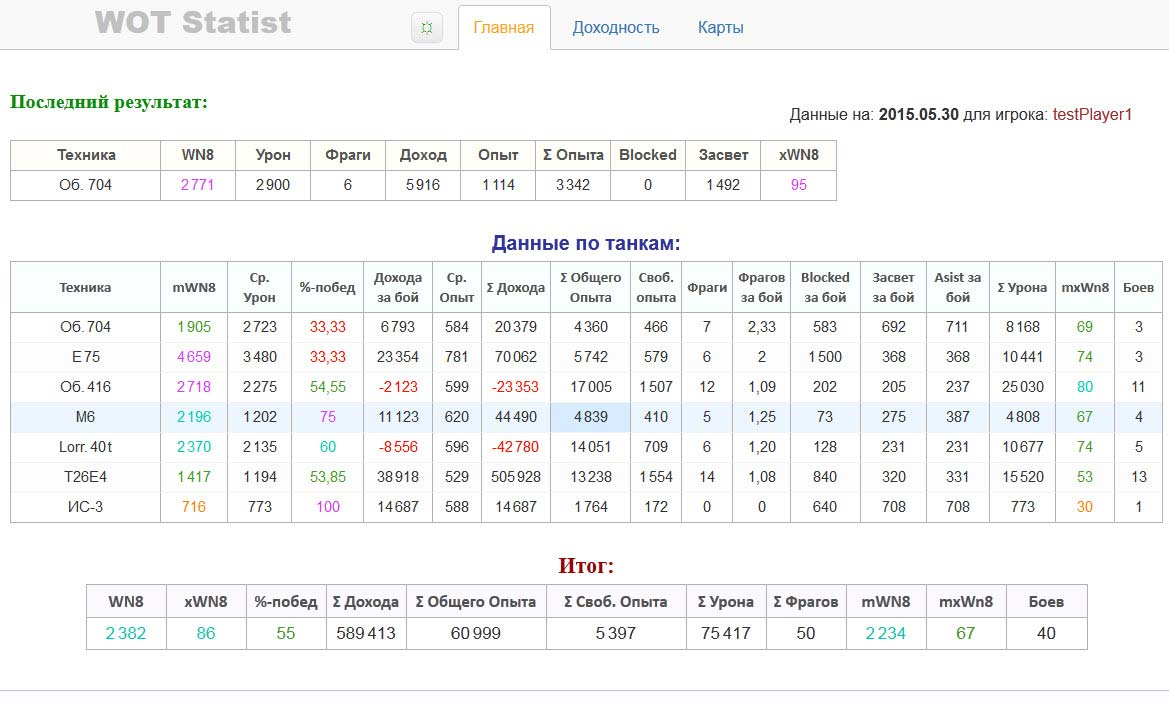
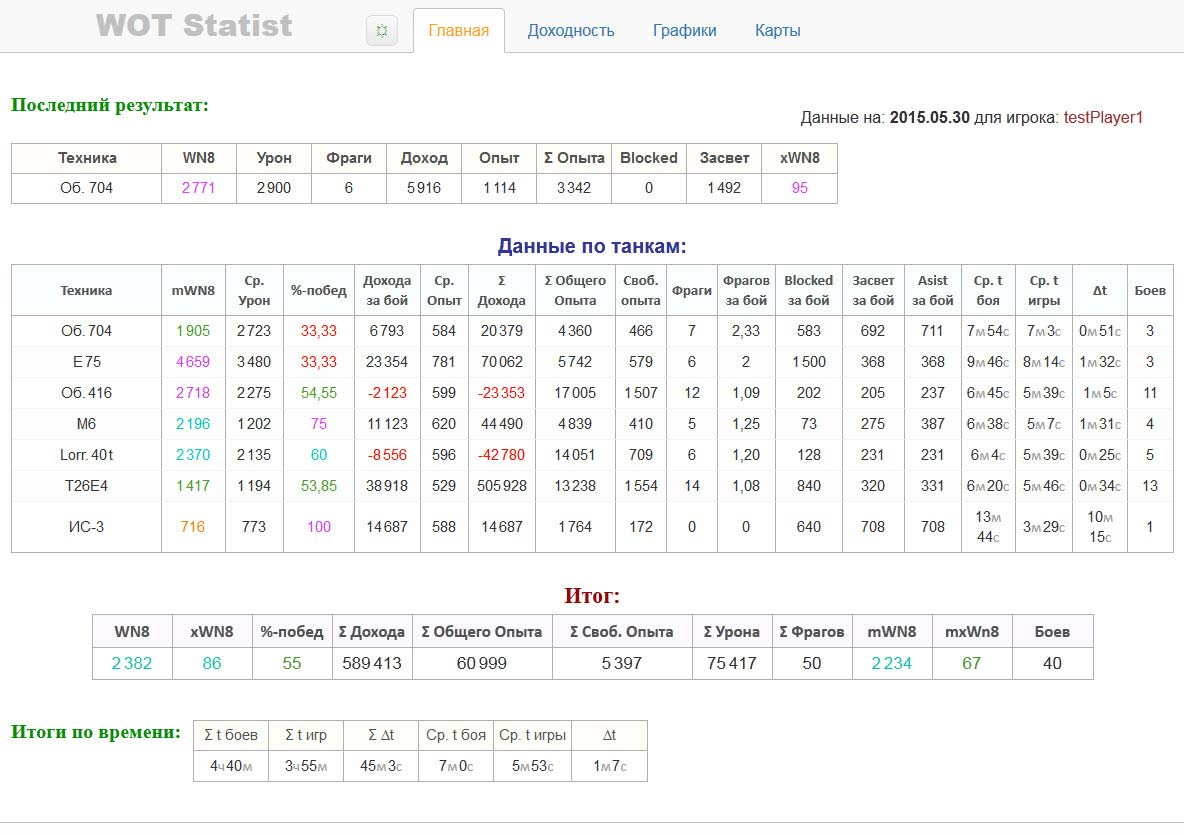
add2

diff --git a/index.html b/index.html
@@ -309,7 +309,7 @@
     <!-- Content -->
         <h3 class="titleInfo">Описание проекта:</h3>
         <p class="contentText1">
-            Книжный магазин на PHP (большой практический localhost-проект на php). Без использования frameWork, с элементами ООП (в основном функциональное программирование). Реализация сборщика шаблона. Работа с MySQL с помощью mysqli. Самописная пагинация и валидация форм. Стороняя библиотека для captcha.<br>
+            Книжный магазин на PHP (большой практический localhost-проект на php). Без использования frameWork, с элементами ООП (в основном процедурное программирование). Реализация сборщика шаблона. Работа с MySQL с помощью mysqli. Самописная пагинация и валидация форм. Стороняя библиотека для captcha.<br>
             <b>Польз. часть:</b> вывод товаров по категориям, корзина и управление ею, оформления заказа.<br>
             <b>Админ. часть:</b> управление каталогом товаров, заказами, покупателями.
         </p>
@@ -437,7 +437,7 @@
             <div class="titleAppsTagBox">
                 <span class="titleAppsTag">JSON</span>
                 <span class="titleAppsTag">javaScript</span>
-                <span class="titleAppsTag">HTML tables</span>
+                <span class="titleAppsTag">Chart.js</span>
             </div>
         </div>
         <!-- photoSlide -->
@@ -445,6 +445,7 @@
             <img src="img/appImg/smallSize/wotStatist.jpg" alt="Главная страница"/>
         </a>
         <a class="hiddenImg" href="img/appImg/fullSize/wotStatist02.jpg" data-lightbox="wotStatist" data-title="Подстраница"></a>
+        <a class="hiddenImg" href="img/appImg/fullSize/wotStatist02b.jpg" data-lightbox="wotStatist" data-title="Графики Chart.js"></a>
         <a class="hiddenImg" href="img/appImg/fullSize/wotStatist03.jpg" data-lightbox="wotStatist" data-title="Разбираемый файл JSON"></a>
         <a class="hiddenImg" href="img/appImg/fullSize/wotStatist04.jpg" data-lightbox="wotStatist" data-title="index.html"></a>
         <a class="hiddenImg" href="img/appImg/fullSize/wotStatist05.jpg" data-lightbox="wotStatist" data-title="style.css"></a>

diff --git a/js/lightbox.js b/js/lightbox.js
@@ -39,7 +39,7 @@
   // Descriptions of all options available on the demo site:
   // http://lokeshdhakar.com/projects/lightbox2/index.html#options
   Lightbox.defaults = {
-    albumLabel: 'Image %1 of %2',
+    albumLabel: 'Изображение %1 из %2',
     alwaysShowNavOnTouchDevices: false,
     fadeDuration: 500,
     fitImagesInViewport: true,
